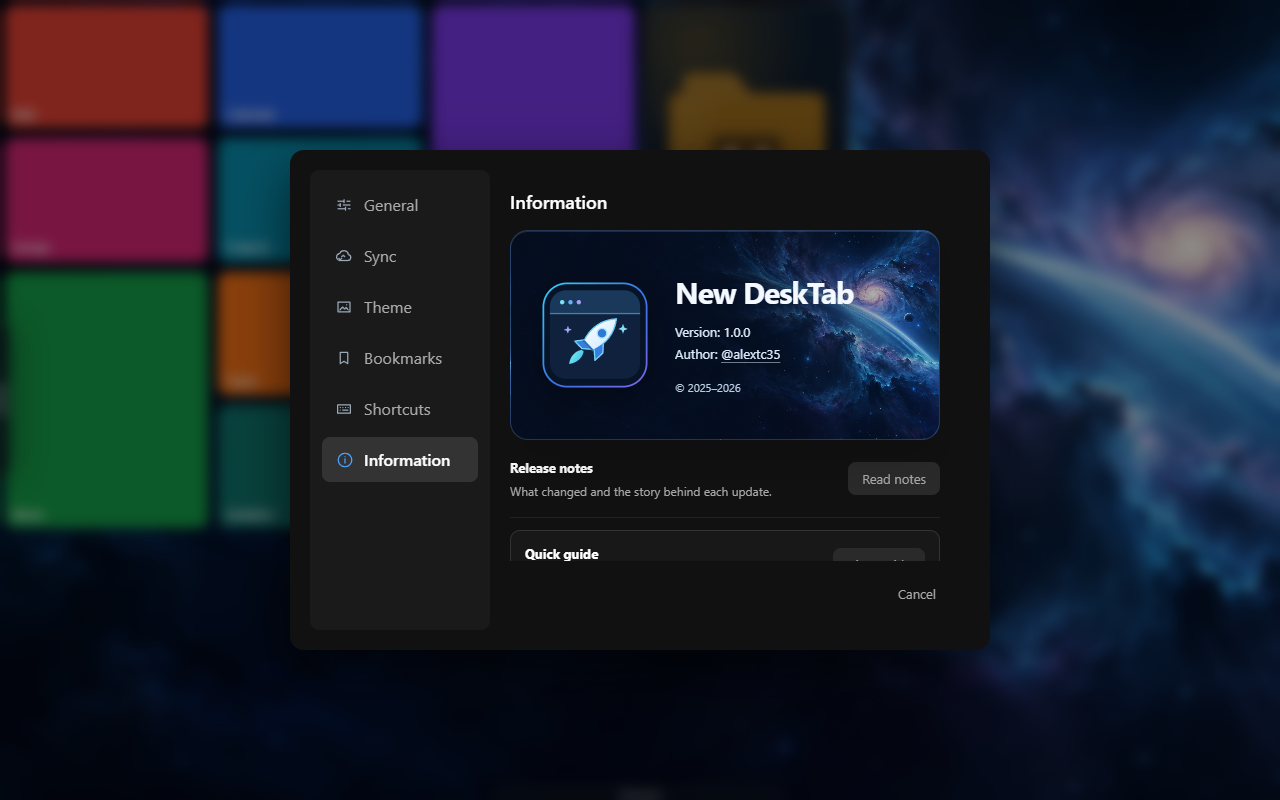
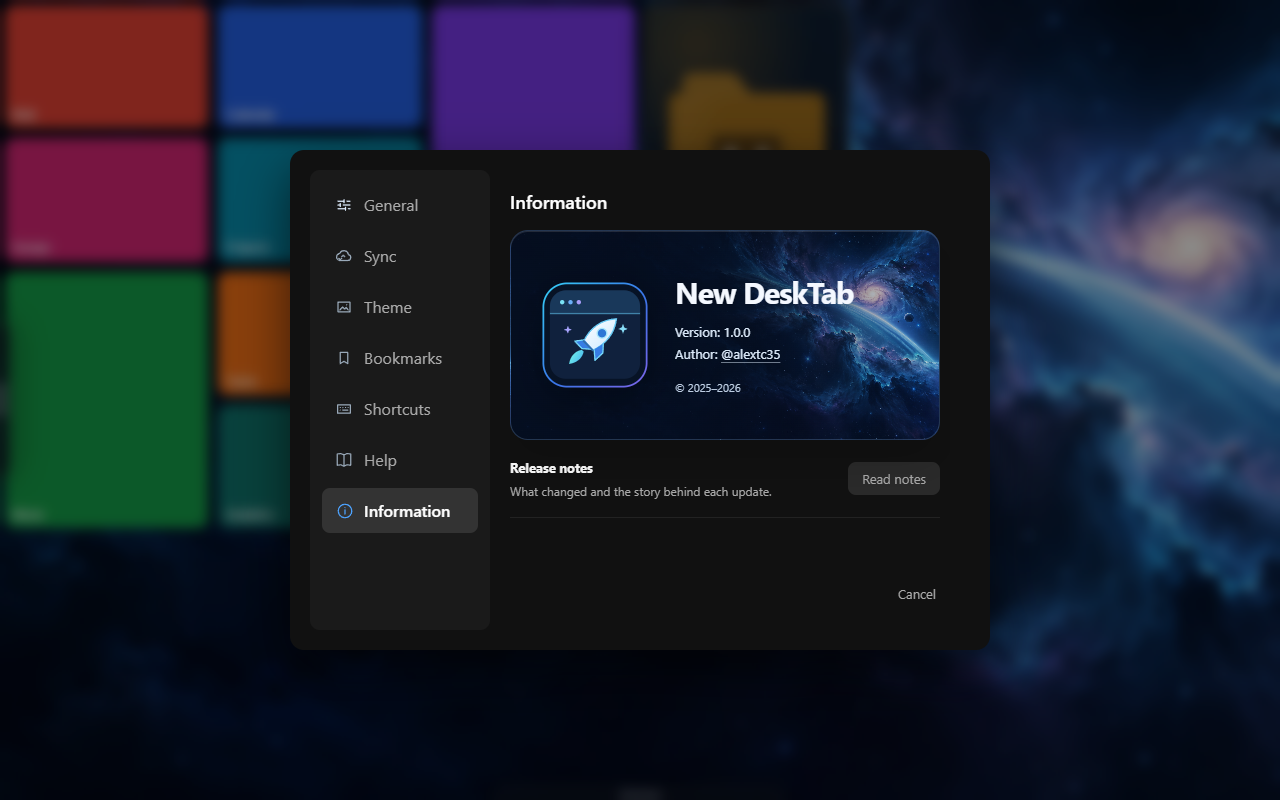
feat(settings): add dedicated Help section

Changed region(s): [[0.25, 0.5312, 0.375, 0.6875], [0.6562, 0.6562, 0.7188, 0.7188], [0.4062, 0.6875, 0.4688, 0.7188]]

diff --git a/tests/e2e/help.spec.js b/tests/e2e/help.spec.js
@@ -10,9 +10,9 @@ async function start(page, { tips = false, fresh = false } = {}) {
   await expectAppReady(page);
 }
 
-async function information(page) {
+async function help(page) {
   await page.evaluate(() => document.getElementById('settings').click());
-  await page.locator('[data-tab="settings-modal-tab-info"]').click();
+  await page.locator('[data-tab="settings-modal-tab-help"]').click();
 }
 
 const storedTips = page => page.evaluate(() => JSON.parse(sessionStorage.getItem('newdesktab-test-local')).newdesktabDailyTips);
@@ -22,9 +22,12 @@ const timing = page => page.locator('.daily-tip-progress-fill').evaluate(element
     scale: new DOMMatrix(getComputedStyle(element).transform).a };
 });
 
-test('Information opens a searchable manual and all sections have instructions', async ({ page }) => {
+test('Help opens a searchable manual and all sections have instructions', async ({ page }) => {
   await start(page);
-  await information(page);
+  await help(page);
+  await expect(page.locator('#settings-modal-tab-help > h2')).toHaveText('Help');
+  await expect(page.locator('#settings-modal-tab-help #settings-open-guide')).toBeAttached();
+  await expect(page.locator('#settings-modal-tab-help #settings-daily-tips')).toBeAttached();
   await page.locator('#settings-open-manual').click();
   const manual = page.locator('#manual-modal');
   await expect(manual).toBeVisible();
@@ -52,12 +55,12 @@ test('Information opens a searchable manual and all sections have instructions',
   }
   await page.keyboard.press('Escape');
   await expect(manual).toBeHidden();
-  await expect(page.locator('#settings-modal-tab-info')).toBeVisible();
+  await expect(page.locator('#settings-modal-tab-help')).toBeVisible();
 });
 
-test('Information suggests useful answers as you type and keeps the query when returning', async ({ page }) => {
+test('Help suggests useful answers as you type and keeps the query when returning', async ({ page }) => {
   await start(page);
-  await information(page);
+  await help(page);
   const input = page.locator('#settings-manual-search');
   const results = page.locator('.settings-help-results');
   await expect(results.locator('button')).toHaveCount(3);
@@ -85,11 +88,13 @@ test('Information suggests useful answers as you type and keeps the query when r
 
 test('help suggestions resolve natural questions in all available languages', async ({ page }) => {
   await start(page);
-  await information(page);
+  await help(page);
   const input = page.locator('#settings-manual-search');
-  for (const [language, query] of [['es', 'quiero navegar sin raton'], ['es_419', 'quiero navegar sin raton'],
-    ['pt_BR', 'quero navegar sem mouse'], ['en', 'navigate without a mouse']]) {
+  for (const [language, query, label] of [['es', 'quiero navegar sin raton', 'Ayuda'], ['es_419', 'quiero navegar sin raton', 'Ayuda'],
+    ['pt_BR', 'quero navegar sem mouse', 'Ajuda'], ['en', 'navigate without a mouse', 'Help']]) {
     await page.evaluate(async language => (await import('/src/platform/i18n/i18n.js')).changeLanguage({ language }), language);
+    await expect(page.locator('[data-tab="settings-modal-tab-help"]')).toHaveText(label);
+    await expect(page.locator('#settings-modal-tab-help > h2')).toHaveText(label);
     await input.fill(query);
     await expect(page.locator('.settings-help-result').first()).toHaveAttribute('data-manual-topic', 'keyboard');
     await input.press('Enter');
@@ -131,7 +136,7 @@ test('welcome links open the right section and return to the same guide step', a
 
 test('manual translates live, suspends in list mode and restores its reading state', async ({ page }) => {
   await start(page);
-  await information(page);
+  await help(page);
   await page.locator('.settings-help-result[data-manual-topic="keyboard"]').click();
   for (const [language, title] of [['es', 'Navegar con el teclado'], ['es_419', 'Navegar con el teclado'], ['pt_BR', 'Navegar com o teclado'], ['en', 'Navigate with the keyboard']]) {
     await page.evaluate(async language => (await import('/src/platform/i18n/i18n.js')).changeLanguage({ language }), language);
@@ -208,7 +213,7 @@ test('countdown pauses for hover, focus and dialogs, then departs with an empty 
   await page.locator('#daily-tip-read').focus();
   await expect.poll(async () => (await timing(page)).state).toBe('paused');
   await page.evaluate(() => document.activeElement.blur());
-  await information(page);
+  await help(page);
   await expect(card).toBeHidden();
   await expect.poll(async () => (await timing(page)).state).toBe('paused');
   await page.locator('#settings-modal-cancel').click();
@@ -243,14 +248,14 @@ test('countdown pauses for hover, focus and dialogs, then departs with an empty 
   await expect(card).toBeHidden();
 });
 
-test('tips wait for the welcome and can be disabled permanently from Information', async ({ page }) => {
+test('tips wait for the welcome and can be disabled permanently from Help', async ({ page }) => {
   await start(page, { tips: true, fresh: true });
   await expect(page.locator('#onboarding-modal')).toBeVisible();
   await page.waitForTimeout(1600);
   expect(await storedTips(page)).toBeUndefined();
   await page.locator('#onboarding-skip').click();
   await expect(page.locator('#daily-tip')).toBeVisible();
-  await information(page);
+  await help(page);
   await page.locator('#settings-daily-tips').uncheck();
   await expect.poll(async () => (await storedTips(page)).enabled).toBe(false);
   await page.locator('#settings-modal-cancel').click();
@@ -259,6 +264,6 @@ test('tips wait for the welcome and can be disabled permanently from Information
   await expectAppReady(page);
   await page.waitForTimeout(1700);
   await expect(page.locator('#daily-tip')).toBeHidden();
-  await information(page);
+  await help(page);
   await expect(page.locator('#settings-daily-tips')).not.toBeChecked();
 });

diff --git a/src/newtab.html b/src/newtab.html
@@ -736,6 +736,10 @@
             <span class="settings-modal-tab-icon" data-settings-icon="shortcuts" aria-hidden="true"></span>
             <span data-i18n="settingsModal.sections.shortcuts">Teclas rápidas</span>
           </button>
+          <button data-tab="settings-modal-tab-help" class="settings-modal-tab-btn" type="button">
+            <span class="settings-modal-tab-icon" data-settings-icon="help" aria-hidden="true"></span>
+            <span data-i18n="settingsModal.sections.help">Ayuda</span>
+          </button>
           <button data-tab="settings-modal-tab-info" class="settings-modal-tab-btn" type="button">
             <span class="settings-modal-tab-icon" data-settings-icon="information" aria-hidden="true"></span>
             <span data-i18n="settingsModal.sections.information">Información</span>
@@ -1387,14 +1391,9 @@
                 <p data-i18n="releaseNotes.settingsDescription">Las novedades y la historia de cada actualización.</p></div>
               <button id="settings-open-release-notes" class="btn btn-secondary" type="button" data-i18n="releaseNotes.open">Ver notas</button>
             </section>
-            <section class="settings-guide">
-              <div>
-                <strong data-i18n="onboarding.reopenTitle">Guía rápida</strong>
-                <p data-i18n="onboarding.reopenDescription">Redescubre lo esencial en un minuto.</p>
-              </div>
-              <button id="settings-open-guide" class="btn btn-secondary" type="button"
-                data-i18n="onboarding.reopen">Ver guía</button>
-            </section>
+          </div>
+          <div id="settings-modal-tab-help" class="settings-modal-tab-content is-hidden custom-scrollbar">
+            <h2 data-i18n="settingsModal.sections.help">Ayuda</h2>
             <section class="settings-manual">
               <span class="manual-eyebrow" data-i18n="manual.eyebrow">TU ESPACIO, A TU RITMO</span>
               <h3 data-i18n="manual.title">Manual de uso</h3>
@@ -1409,6 +1408,14 @@
                   data-i18n-aria-label="manual.search.resultsLabel"></div>
               </form>
               <button id="settings-open-manual" class="btn btn-primary" type="button" data-i18n="manual.open">Explorar el manual</button>
+            </section>
+            <section class="settings-guide">
+              <div>
+                <strong data-i18n="onboarding.reopenTitle">Guía rápida</strong>
+                <p data-i18n="onboarding.reopenDescription">Redescubre lo esencial en un minuto.</p>
+              </div>
+              <button id="settings-open-guide" class="btn btn-secondary" type="button"
+                data-i18n="onboarding.reopen">Ver guía</button>
             </section>
             <section class="settings-daily-tips">
               <div class="checkbox-wrapper">

diff --git a/tests/e2e/interfacePreferences.spec.js b/tests/e2e/interfacePreferences.spec.js
@@ -55,7 +55,7 @@ test('settings launcher uses an accessible, theme-colored SVG asset', async ({ p
 test('settings navigation and inline language control load their SVG assets without injected markup', async ({ page }) => {
   await start(page);
   await openSettings(page);
-  const kinds = ['general', 'sync', 'theme', 'bookmark', 'shortcuts', 'information'];
+  const kinds = ['general', 'sync', 'theme', 'bookmark', 'shortcuts', 'help', 'information'];
   await expect(page.locator('.settings-modal-tabs .settings-modal-tab-icon')).toHaveCount(kinds.length);
   await expect(page.locator('#settings-modal-tab-lang')).toHaveCount(0);
   await expect(page.locator('#settings-modal-tab-general > .settings-language')).toBeVisible();
@@ -92,6 +92,10 @@ test('Information displays the New DeskTab brand artwork and keeps its text read
     .toBe(true);
   await expect(card).toHaveCSS('background-image', /information-cosmos\.png/);
   await expect(card.locator('.settings-information-copy')).toBeVisible();
+  await expect(page.locator('#settings-open-release-notes')).toBeVisible();
+  await expect(page.locator('#settings-open-manual')).toBeHidden();
+  await expect(page.locator('#settings-open-guide')).toBeHidden();
+  await expect(page.locator('#settings-daily-tips')).toBeHidden();
 });
 
 test('folder captions preserve saved colors with readable badges across themes and editors', async ({ page }) => {

diff --git a/tests/e2e/onboarding.spec.js b/tests/e2e/onboarding.spec.js
@@ -84,7 +84,7 @@ test('finishes five steps and creates a real first bookmark', async ({ page }) =
   await expect(page.getByRole('link', { name: /My first page/ })).toBeVisible();
 });
 
-test('reopens from Information in every language without losing a settings draft', async ({ page }) => {
+test('reopens from Help in every language without losing a settings draft', async ({ page }) => {
   await start(page, { fresh: false });
   await page.keyboard.press('KeyS');
   await expect(page.locator('#settings-modal')).toBeVisible();
@@ -99,7 +99,7 @@ test('reopens from Information in every language without losing a settings draft
     await page.locator('[data-tab="settings-modal-tab-general"]').click();
     await page.locator('#language-select').selectOption(locale);
     await expect(page.locator('html')).toHaveAttribute('lang', locale.replace('_', '-'));
-    await page.locator('[data-tab="settings-modal-tab-info"]').click();
+    await page.locator('[data-tab="settings-modal-tab-help"]').click();
     await page.locator('#settings-open-guide').click();
     await expect(guide(page)).toBeVisible();
     await expect(page.locator('#onboarding-title')).toHaveText(title);

diff --git a/tests/e2e/defaultWallpaper.spec.js b/tests/e2e/defaultWallpaper.spec.js
@@ -64,7 +64,7 @@ for (const [theme, colorScheme] of [['dark', 'light'], ['light', 'dark'], ['syst
     await page.locator('.bg-preview').screenshot({ path: testInfo.outputPath('settings-default.png') });
     await page.locator('#settings-modal-cancel').click();
 
-    await openSettings(page, 'info');
+    await openSettings(page, 'help');
     await page.locator('#settings-open-manual').click();
     await page.locator('.manual-index [data-manual-topic="movement"]').click();
     await seek(page, 0);
@@ -113,7 +113,7 @@ for (const [theme, colorScheme] of [['dark', 'light'], ['light', 'dark'], ['syst
 test('appearance demonstration changes its own wallpaper without changing the active interface theme', async ({ page }) => {
   await start(page, 'light', 'dark');
   const background = await page.locator('body').evaluate(body => getComputedStyle(body).backgroundImage);
-  await openSettings(page, 'info');
+  await openSettings(page, 'help');
   await page.locator('#settings-open-manual').click();
   await page.locator('.manual-index [data-manual-topic="interface"]').click();
   const scene = page.locator('.manual-demo-scene');

diff --git a/tests/e2e/manualDemos.spec.js b/tests/e2e/manualDemos.spec.js
@@ -8,7 +8,7 @@ async function start(page) {
   await page.goto('/tests/browser-harness.html');
   await expectAppReady(page);
   await page.evaluate(() => document.getElementById('settings').click());
-  await page.locator('[data-tab="settings-modal-tab-info"]').click();
+  await page.locator('[data-tab="settings-modal-tab-help"]').click();
   await page.locator('#settings-open-manual').click();
 }
 

diff --git a/src/features/settings/settings.css b/src/features/settings/settings.css
@@ -102,6 +102,10 @@
   --settings-tab-icon: url('/src/assets/icons/settings-information.svg');
 }
 
+.settings-modal-tab-icon[data-settings-icon="help"] {
+  --settings-tab-icon: url('/src/assets/icons/settings-help.svg');
+}
+
 .settings-modal-tab-btn:hover .settings-modal-tab-icon,
 .settings-modal-tab-btn.active .settings-modal-tab-icon {
   color: var(--ui-accent);

diff --git a/docs/RELEASE_REVIEW.md b/docs/RELEASE_REVIEW.md
@@ -8,6 +8,11 @@ los esquemas 2–21 de desarrollo se han descartado por decisión del autor.
 
 ## Cambios aplicados
 
+- **Ayuda.** Sección propia en ajustes con icono de libro, buscador del manual,
+  respuestas habituales, guía rápida y preferencia de consejos diarios. Los
+  cuatro idiomas y el propio manual apuntan a Ayuda. Información conserva la
+  presentación del proyecto, la versión y las notas de actualización.
+
 - **Notas de versión.** Aviso único por versión y perfil antes de la guía inicial,
   historial consultable desde Información y traducciones en los cuatro idiomas.
   La nota 1.0.0 recoge la historia y el agradecimiento del autor y aclara que el
@@ -97,25 +102,26 @@ los esquemas 2–21 de desarrollo se han descartado por decisión del autor.
 | Comprobación | Resultado |
 | --- | --- |
 | ESLint, tests unitarios y DOM | 254 tests unitarios y 62 tests DOM correctos; ESLint correcto. |
-| `npm run test:e2e` | Con esquema 1 y notas de versión: 268 escenarios correctos en Chromium, 12,1 minutos; sin fallos, omitidos ni reintentos. |
-| Chrome for Testing 123.0.6312.122 | Con notas de versión: 37 escenarios de notas, ayuda, bienvenida y concurrencia correctos; incluyen llegada secuencial, modo lista, posición e iconos del consejo diario. Smoke del ZIP correcto. Validación anterior con esquema 1: 23 escenarios de backups y fondos. Batería completa previa al reinicio: 252 escenarios correctos. |
+| `npm run test:e2e` | Antes de separar Ayuda: 268 escenarios correctos en Chromium, 12,1 minutos; sin fallos, omitidos ni reintentos. |
+| Sección Ayuda | 83 escenarios verificados de ayuda, guía, demos, navegación, fondos, notas y modo lista. Se corrigió un acceso antiguo a Información en un test y los 7 escenarios de fondos pasaron al repetirlos. Layout revisado a 601, 720 y 1280 píxeles; traducciones correctas en cuatro idiomas. |
+| Chrome for Testing 123.0.6312.122 | Antes de separar Ayuda: 37 escenarios de notas, ayuda, bienvenida y concurrencia correctos; incluyen llegada secuencial, modo lista, posición e iconos del consejo diario. Smoke del ZIP actual con Ayuda correcto. Validación anterior con esquema 1: 23 escenarios de backups y fondos. Batería completa previa al reinicio: 252 escenarios correctos. |
 | Validación ZIP | 13 pruebas de formato y entradas inválidas; cuatro recorridos de navegador correctos, incluida compatibilidad JSON, selector ZIP y rechazo de vídeos dañados. Un lector ZIP independiente de Python también verifica el archivo descargado. |
 | `node scripts/benchmark-backups.mjs` | ZIP exportado/restaurado con 10, 50, 200 MiB y dos vídeos de 200 MiB; tamaños, tiempos y muestras de memoria registrados. |
 | `npm audit --audit-level=high` | Cero vulnerabilidades tras la actualización de herramientas de desarrollo. |
 | `npm run assets:store` | Generación correcta; cuatro imágenes inspeccionadas. |
-| `npm run test:extension` | ZIP extraído correcto en Chromium, Google Chrome 155.0.8059.40, Brave 155.1.97.56 y Chrome for Testing 123.0.6312.122: nueva pestaña, popup, recarga, atajos y backup ZIP con vídeo bajo Manifest V3; sin errores de página. |
+| `npm run test:extension` | ZIP extraído correcto en Chromium, Google Chrome 155.0.8059.40, Brave 155.1.97.56 y Chrome for Testing 123.0.6312.122: nueva pestaña, Ayuda → manual → ajustes, Información, popup, recarga, atajos y backup ZIP con vídeo bajo Manifest V3; sin errores de página. |
 | Chrome Sync real | Verificado por el autor entre perfiles/dispositivos; no se sustituye por la simulación de storage de los tests. |
 | Enlaces de la ficha | Privacidad y soporte públicos responden HTTP 200. |
 | `git diff --check` | Sin errores de espacios o conflictos. |
 
-Artefacto: `dist/newdesktab-1.0.0.zip`, 2.431.032 bytes y 272 archivos.
+Artefacto: `dist/newdesktab-1.0.0.zip`, 2.431.426 bytes y 273 archivos.
 Incluye únicamente recursos de la extensión, licencia y política de privacidad.
 El empaquetador comprueba cada entrada y su contenido contra el origen.
 
 SHA-256:
 
 ```text
[2 lines of base64/hex data omitted]
 ```
 
 Las mediciones de vídeos grandes y las pruebas de rendimiento descritas en este
@@ -152,10 +158,11 @@ el máximo absoluto ni se valida toda biblioteca o sesión de incógnito posible
 
 ## Pasos pendientes de publicación
 
-1. Guardar y subir los cambios de notas de versión y comprobar GitHub Actions
-   para el commit definitivo. El commit anterior `176ccfe` ya tiene una
+1. Guardar y subir los cambios de la sección Ayuda y comprobar GitHub Actions
+   para el commit definitivo. El commit `176ccfe` ya tiene una
    [ejecución remota correcta](https://github.com/Alextc35/newdesktab/actions/runs/38236420523);
-   esa ejecución no incluye esta nueva funcionalidad, que sigue sin commit.
+   esa ejecución no cubre los cambios posteriores. Las notas de versión están
+   en `12760ea`; la sección Ayuda todavía no tiene commit.
 2. Comprobar que la clave del manifiesto corresponde a la ficha, y revisar
    descripción, privacidad, correo de contacto y verificación en dos pasos.
    Las imágenes ya se regeneraron e inspeccionaron en esta revisión; repetir

diff --git a/docs/ARCHITECTURE.md b/docs/ARCHITECTURE.md
@@ -909,7 +909,9 @@ before resetting. Responsive geometry is measured inside the preview;
 demonstrations stop when hidden or on another step. Reduced-motion mode shows
 static examples, including the filtered search result. The
 application supplies the action that opens the first-bookmark editor. Settings →
-Information can reopen the guide over a settings draft without discarding it.
+Help contains the manual search, guide replay and daily-tip preference. It can
+reopen the guide over a settings draft without discarding it. Information keeps
+the project details and release history.
 `platform/storage/deviceOnboarding.js` atomically claims the first welcome with
 a Web Lock and stores offered/completed/dismissed status in a device-only key;
 it never enters application data, Chrome Sync or backups. This optional storage

diff --git a/docs/RELEASE_NOTES.md b/docs/RELEASE_NOTES.md
@@ -13,6 +13,8 @@ de funciones principales y el estado del reloj como widget en desarrollo.
   corresponde al día. Permanece abajo a la derecha; su temporizador avanza durante
   la lectura y se pausa por cursor, foco, otra ventana de diálogo o pestaña oculta.
 - Cada consejo muestra el SVG de su tema y puede abrir su sección del manual.
+- Ajustes → Ayuda reúne el buscador del manual, las respuestas habituales, la
+  guía rápida y la preferencia de consejos diarios.
 - En modo lista (600 píxeles o menos) las notas, guía, manual y consejos se ocultan
   con un flash. Los diálogos abiertos quedan suspendidos hasta ampliar la ventana.
   Los avisos que todavía no se han mostrado no se consumen en modo lista.

diff --git a/CHANGELOG.md b/CHANGELOG.md
@@ -14,6 +14,7 @@ First stable release of New DeskTab, a customizable new-tab workspace.
 - Customize light/dark appearance, backgrounds and device-local wallpaper rotation.
 - Export and restore JSON or ZIP backups, including referenced local images and videos.
 - Use the onboarding guide, searchable manual and optional daily tips in four languages.
+- Find the manual, quick guide and daily-tip preference in a dedicated Help section.
 - Read the author's first-release introduction and revisit release history from Information.
 - See each update notice once per profile, followed by the optional welcome guide and daily tip.
 - Protect existing data by rejecting malformed imports, future schemas and duplicate IDs.

diff --git a/README.md b/README.md
@@ -17,7 +17,8 @@ items on a desktop without relying on a NewDeskTab account or backend.
 ## Features
 
 * Release notes shown once per version and browser profile, with a history in Settings → Information
-* Optional five-step first-visit guide, replayable from Settings → Information
+* Dedicated Settings → Help section with the searchable manual, welcome guide and daily-tip preference
+* Optional five-step first-visit guide, replayable from Settings → Help
 * Smooth eight-direction drag and resize on a collision-aware grid
 * Configurable drag behavior: None (default), Relocation and experimental
   Sequence
